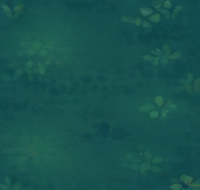
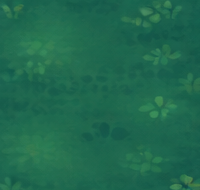
Meadow lawn built from the separate kit pieces (no painting): back hedge with glowing mushrooms, scattered rocks/flowers/clovers/leaves, thick sides and a front border with big glowing corner clumps
Claude-Session: https://claude.ai/code/session_019v8WeJ6PFisWH7i3ZPPzct

diff --git a/app/src/main/java/com/razedragon/tinylab/GameView.kt b/app/src/main/java/com/razedragon/tinylab/GameView.kt
@@ -2198,37 +2198,86 @@ class GameView(context: Context) : View(context) {
     }
     private var lawnShader: android.graphics.BitmapShader? = null
 
-    // ----- The painted meadow, laid on the ground in perspective -----
-    private var panoBmp: android.graphics.Bitmap? = null
-    private var panoTried = false
-    private fun meadowPano(): android.graphics.Bitmap? {
-        if (!panoTried) { panoTried = true
-            panoBmp = try { context.assets.open("garden/meadow_pano.jpg").use { android.graphics.BitmapFactory.decodeStream(it) } } catch (_: Exception) { null } }
-        return panoBmp
-    }
-    private val PANO_MW = 24; private val PANO_MH = 24
-    private val panoVerts = FloatArray((PANO_MW + 1) * (PANO_MH + 1) * 2)
-    private val panoPaint = Paint(Paint.FILTER_BITMAP_FLAG or Paint.ANTI_ALIAS_FLAG)
-    /** Maps the picture onto the ground the same way the mushrooms are placed, so it pans and narrows toward the back with them. */
-    private fun drawPanoLawn(c: Canvas, w: Float, hz: Float, gb: Float, b: android.graphics.Bitmap) {
-        val g0 = -0.4f; val g1 = LabState.WORLD + 0.4f
-        val span = groundBottom() - groundTop()
-        val zTop = (hz - groundTop()) / span; val zBot = (gb - groundTop()) / span
-        var k = 0
-        for (j in 0..PANO_MH) {
-            val gz = zTop + (zBot - zTop) * j / PANO_MH
-            val f = w * 0.86f * (0.72f + 0.28f * gz)
-            val y = groundTop() + span * gz
-            for (i in 0..PANO_MW) {
-                val gx = g0 + (g1 - g0) * i / PANO_MW
-                panoVerts[k++] = w / 2 + (gx - camX) * f
-                panoVerts[k++] = y
+    // ----- The Moonlit Meadow, laid out piece by piece like the meadow painting -----
+    private class LawnItem(val gx: Float, val gz: Float, val name: String, val h: Float, val flip: Boolean, val glow: Int = 0)
+    private val meadowLayout: List<LawnItem> by lazy {
+        val r = Random(2026); val out = ArrayList<LawnItem>()
+        val W = LabState.WORLD
+        fun pick(prefix: String, n: Int) = prefix + (1 + r.nextInt(n))
+        fun inPatchArea(gx: Float, gz: Float) = gx in 1.15f..1.92f && gz in 0.05f..0.82f
+        fun glowShroom(gx: Float, gz: Float, h: Float) { val k = r.nextInt(GLOW_SHROOMS.size); out.add(LawnItem(gx, gz, GLOW_SHROOMS[k], h, r.nextBoolean(), GLOW_COLS[k])) }
+        // the back hedge: leafy bushes and flowers with glowing mushrooms poking up
+        var x = -0.45f
+        while (x < W + 0.45f) {
+            out.add(LawnItem(x, -0.04f + r.nextFloat() * 0.05f, pick("gr", 8), 30f + r.nextFloat() * 10f, r.nextBoolean()))
+            if (r.nextFloat() < 0.5f) out.add(LawnItem(x + 0.02f, -0.01f + r.nextFloat() * 0.04f, pick("fl", 10), 26f + r.nextFloat() * 8f, r.nextBoolean()))
+            if (r.nextFloat() < 0.24f) glowShroom(x + 0.01f, -0.06f + r.nextFloat() * 0.03f, 52f + r.nextFloat() * 26f)
+            x += 0.045f + r.nextFloat() * 0.035f
+        }
+        // the front border: big rocks, thick bushes, flower clumps and large glowing mushrooms in the corners
+        x = -0.45f
+        while (x < W + 0.45f) {
+            val gz = 1.32f + r.nextFloat() * 0.38f
+            when (r.nextInt(10)) {
+                0, 1 -> out.add(LawnItem(x, gz, if (r.nextBoolean()) "rk5" else "rk6", 46f + r.nextFloat() * 24f, r.nextBoolean()))
+                2, 3, 4 -> out.add(LawnItem(x, gz, "fl${11 + r.nextInt(5)}", 40f + r.nextFloat() * 12f, r.nextBoolean()))
+                5 -> out.add(LawnItem(x, gz, pick("fl", 10), 34f + r.nextFloat() * 8f, r.nextBoolean()))
+                else -> out.add(LawnItem(x, gz, pick("gr", 8), 34f + r.nextFloat() * 12f, r.nextBoolean()))
+            }
+            if (r.nextFloat() < 0.45f) out.add(LawnItem(x + 0.03f, 1.18f + r.nextFloat() * 0.12f, pick("fl", 10), 28f + r.nextFloat() * 8f, r.nextBoolean()))
+            x += 0.05f + r.nextFloat() * 0.05f
+        }
+        for (cx in floatArrayOf(-0.25f, 0.05f, W - 0.05f, W + 0.25f)) {   // the big glowing corner clumps
+            glowShroom(cx, 1.5f + r.nextFloat() * 0.15f, 95f + r.nextFloat() * 25f)
+            glowShroom(cx + 0.09f, 1.6f + r.nextFloat() * 0.1f, 60f + r.nextFloat() * 15f)
+            out.add(LawnItem(cx - 0.07f, 1.62f, "rk6", 60f, r.nextBoolean()))
+        }
+        glowShroom(W * 0.48f, 1.62f, 78f); glowShroom(W * 0.52f, 1.66f, 52f)
+        // the sides: thick clumps all the way down the edges
+        for (side in 0..1) {
+            var gz = 0.02f
+            while (gz < 1.3f) {
+                val gx = if (side == 0) -0.12f - r.nextFloat() * 0.3f else W + 0.12f + r.nextFloat() * 0.3f
+                when (r.nextInt(5)) {
+                    0 -> glowShroom(gx, gz, 60f + r.nextFloat() * 30f)
+                    1 -> out.add(LawnItem(gx, gz, "rk${4 + r.nextInt(3)}", 40f + r.nextFloat() * 20f, r.nextBoolean()))
+                    2 -> out.add(LawnItem(gx, gz, "fl${11 + r.nextInt(5)}", 38f + r.nextFloat() * 10f, r.nextBoolean()))
+                    else -> out.add(LawnItem(gx, gz, pick("gr", 8), 32f + r.nextFloat() * 10f, r.nextBoolean()))
+                }
+                gz += 0.08f + r.nextFloat() * 0.06f
             }
         }
-        c.save(); c.clipRect(0f, hz, w, gb)
-        c.drawBitmapMesh(b, PANO_MW, PANO_MH, panoVerts, 0, null, 0, panoPaint)
-        c.restore()
+        // the open middle: a scatter of rocks, flower tufts, clovers, leaf piles and grass, leaving room to play
+        fun scatter(n: Int, make: (Float, Float) -> LawnItem) {
+            var placed = 0; var tries = 0
+            while (placed < n && tries < n * 20) {
+                tries++
+                val gx = -0.1f + r.nextFloat() * (W + 0.2f); val gz = 0.08f + r.nextFloat() * 1.08f
+                if (inPatchArea(gx, gz)) continue
+                out.add(make(gx, gz)); placed++
+            }
+        }
+        scatter(9) { gx, gz -> LawnItem(gx, gz, "rk${1 + r.nextInt(6)}", 30f + r.nextFloat() * 26f, r.nextBoolean()) }
+        scatter(10) { gx, gz -> LawnItem(gx, gz, "rk${7 + r.nextInt(2)}", 12f + r.nextFloat() * 6f, r.nextBoolean()) }
+        scatter(16) { gx, gz -> LawnItem(gx, gz, "fl${11 + r.nextInt(5)}", 30f + r.nextFloat() * 10f, r.nextBoolean()) }
+        scatter(26) { gx, gz -> LawnItem(gx, gz, pick("fl", 10), 22f + r.nextFloat() * 8f, r.nextBoolean()) }
+        scatter(22) { gx, gz -> LawnItem(gx, gz, pick("cl", 5), 18f + r.nextFloat() * 6f, r.nextBoolean()) }
+        scatter(12) { gx, gz -> LawnItem(gx, gz, pick("lf", 5), 18f + r.nextFloat() * 8f, r.nextBoolean()) }
+        scatter(34) { gx, gz -> LawnItem(gx, gz, pick("gr", 8), 18f + r.nextFloat() * 8f, r.nextBoolean()) }
+        out.sortedBy { it.gz }
     }
+
+    /** The meadow pieces behind the mushrooms ([front] = false) or the front border in front of them. */
+    private fun drawMeadowLayer(c: Canvas, w: Float, front: Boolean) {
+        for (it in meadowLayout) {
+            if ((it.gz > 1.08f) != front) continue
+            val (x, y) = toScreen(it.gx, it.gz)
+            val sz = it.h * dp * (0.72f + 0.28f * it.gz)
+            if (x < -sz * 1.5f || x > w + sz * 1.5f) continue
+            gkDraw(c, it.name, x, y + sz * 0.06f, sz, it.flip)
+        }
+    }
+
     private val lawnMatrix = android.graphics.Matrix()
 
     // ---------- UI sprites from the kawaii GUI pack (assets/ui) ----------
@@ -2858,18 +2907,21 @@ class GameView(context: Context) : View(context) {
 
         // ground plane: the painted grass texture on the meadow, a soft gradient on other themes
         val gb = navTop
-        val pano = if (lab.theme == 0) meadowPano() else null
-        val lawnBmp = if (lab.theme == 0 && pano == null) gk("lawn") else null
-        if (pano != null) drawPanoLawn(c, w, hz, gb, pano)
-        else if (lawnBmp != null) {
+        val meadow = lab.theme == 0 && gk("lawn") != null
+        val lawnBmp = if (meadow) gk("lawn") else null
+        if (lawnBmp != null) {
             val sh = lawnShader ?: android.graphics.BitmapShader(lawnBmp, Shader.TileMode.MIRROR, Shader.TileMode.MIRROR).also { lawnShader = it }
             val tile = 150f * dp / lawnBmp.width
             lawnMatrix.reset(); lawnMatrix.setScale(tile, tile); lawnMatrix.postTranslate(-(camX - 0.5f) * pxPerWorld(), hz)
             sh.setLocalMatrix(lawnMatrix)
             fill.shader = sh; c.drawRect(0f, hz, w, gb, fill)
-            // distance haze toward the back, a little lift toward the front
-            fill.shader = LinearGradient(0f, hz, 0f, gb, intArrayOf(Color.argb(150, 20, 30, 50), Color.argb(30, 20, 30, 50), Color.argb(0, 0, 0, 0)),
-                floatArrayOf(0f, 0.35f, 1f), Shader.TileMode.CLAMP)
+            // a soft lighter clearing in the middle of the meadow, darker toward the edges (like the painting)
+            val (mx, my) = toScreen(LabState.WORLD / 2f, 0.55f)
+            fill.shader = RadialGradient(mx, my, w * 1.1f, intArrayOf(Color.argb(70, 120, 200, 110), Color.argb(25, 90, 170, 100), Color.argb(0, 0, 0, 0)),
+                floatArrayOf(0f, 0.55f, 1f), Shader.TileMode.CLAMP)
+            c.drawRect(0f, hz, w, gb, fill)
+            fill.shader = LinearGradient(0f, hz, 0f, gb, intArrayOf(Color.argb(120, 15, 30, 55), Color.argb(10, 15, 30, 55), Color.argb(0, 0, 0, 0)),
+                floatArrayOf(0f, 0.3f, 1f), Shader.TileMode.CLAMP)
             c.drawRect(0f, hz, w, gb, fill)
         } else {
             fill.shader = LinearGradient(0f, hz, 0f, gb, th.groundFar, th.groundNear, Shader.TileMode.CLAMP)
@@ -2877,12 +2929,12 @@ class GameView(context: Context) : View(context) {
         }
         fill.shader = null
         // glowing mushroom clumps along the back of the meadow
-        if (pano == null && lab.theme != 3 && gk("gm_blue") != null) for ((bgx, k, sc) in glowBorder) {
+        if (meadow) { drawMeadowLayer(c, w, front = false); return }   // hand-placed painted pieces, like the meadow painting
+        if (lab.theme != 3 && gk("gm_blue") != null) for ((bgx, k, sc) in glowBorder) {
             if (abs(bgx - camX) > 0.75f) continue
             val (bx, by) = toScreen(bgx, 0f)
             gkDraw(c, GLOW_SHROOMS[k], bx, by + 4f * dp, 34f * dp * sc, flip = k % 2 == 1)
         }
-        if (pano != null) return   // the painted meadow already has its own flowers, rocks and glowing mushrooms
         val useKit = lab.theme != 3 && lab.theme != 4 && gk("fl1") != null
         val autumn = Data.season() == 2
         val grass = when (lab.theme) { 2 -> Color.rgb(200, 140, 60); 3 -> Color.rgb(130, 110, 200); 4 -> Color.rgb(200, 215, 235); else -> Color.rgb(110, 190, 120) }
@@ -2934,7 +2986,18 @@ class GameView(context: Context) : View(context) {
             c.drawCircle(x, gy, sz * 1.5f, fill)
             fill.shader = null
         }
-        if (lab.theme != 3 && area == 0 && meadowPano() == null && gk("gm_blue") != null) for ((bgx, k, sc) in glowBorder) {   // the border mushrooms glow
+        if (lab.theme == 0 && area == 0 && gk("lawn") != null) for (it in meadowLayout) {   // meadow mushrooms glow at night
+            if (it.glow == 0) continue
+            val (bx, by) = toScreen(it.gx, it.gz)
+            if (bx < -120f * dp || bx > w + 120f * dp) continue
+            val sz = it.h * dp * (0.72f + 0.28f * it.gz)
+            val gc = it.glow; val rr = sz * 0.75f * (1f + 0.08f * sin(t * 1.5f + it.gx * 9f))
+            fill.shader = RadialGradient(bx, by - sz * 0.55f, rr, Color.argb((dark * 140).toInt(), Color.red(gc), Color.green(gc), Color.blue(gc)),
+                Color.argb(0, Color.red(gc), Color.green(gc), Color.blue(gc)), Shader.TileMode.CLAMP)
+            c.drawCircle(bx, by - sz * 0.55f, rr, fill); fill.shader = null
+            gkDraw(c, it.name, bx, by + sz * 0.06f, sz, it.flip, alpha = (dark * 190).toInt())
+        }
+        else if (lab.theme != 3 && area == 0 && gk("gm_blue") != null) for ((bgx, k, sc) in glowBorder) {   // the border mushrooms glow
             if (abs(bgx - camX) > 0.75f) continue
             val (bx, by) = toScreen(bgx, 0f)
             val gc = GLOW_COLS[k]; val rr = 30f * dp * sc * (1f + 0.08f * sin(t * 1.5f + bgx * 9f))
@@ -3169,6 +3232,7 @@ class GameView(context: Context) : View(context) {
                 text.color = Color.WHITE
             }
         }
+        if (area == 0 && lab.theme == 0 && gk("lawn") != null) drawMeadowLayer(c, w, front = true)
         drawBestieHearts(c)
         drawLevelUp(c)
         if (area == 0 && !photoMode) drawVisitor(c)
